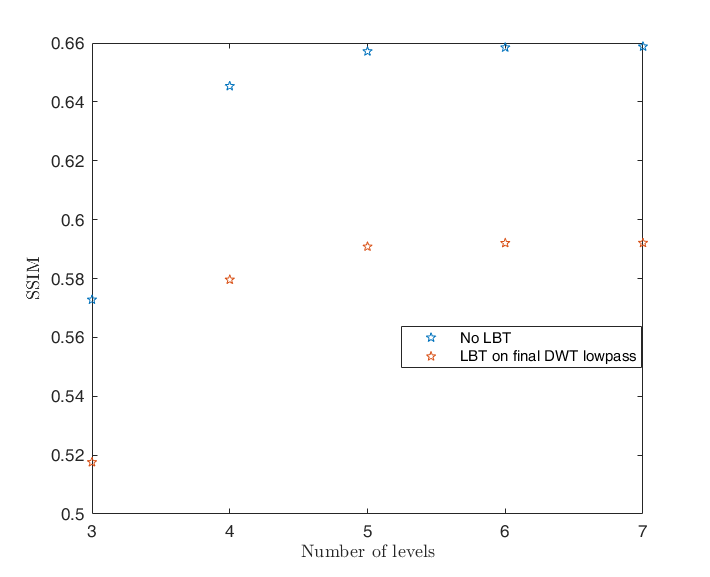
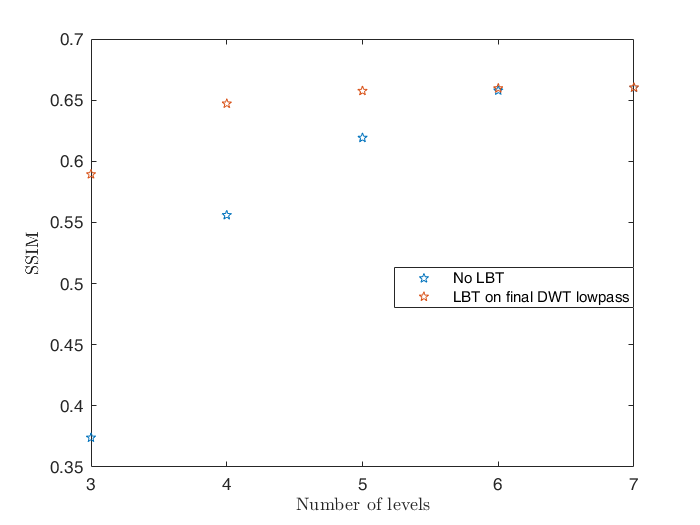
move images around, final comp file, fix DWT + LBT combo

diff --git a/comp_enc.m b/comp_enc.m
@@ -1,14 +1,10 @@
-%% ADD PATHS
-addpath('DWT');
-addpath('COMMON');
-addpath('LBT');
-
 %% DWT encoding
 % only optimisation is optimisation of the rise parameter
 
-rises = [0.4 0.5 0.9 1];
+rises = [0.45 0.5 1];
 rise = 0.5;
 s_dwt = -1;
+%{
 q_opt = 0;
 for r = rises
     evalc('[s,n,~,q,~] = dwt_opt_enc(X,7,-1,r);');
@@ -18,6 +14,7 @@ for r = rises
         rise = r;
     end
 end
+%}
 
 %% LBT encoding
 % only optimisation is optimisation of the ratio parameter and the qstep
@@ -54,7 +51,7 @@ if s_lbt > s_dwt
         % huffval
         % and...?
         
-        [vlc, bits, huffval, q_opt_lbt, ratio] = jpegenclbtnlev(X, q_opt_lbt, N, M, rise1, s, true, 16, ratio, ratio2);
+        [vlc, bits, huffval, q_opt_lbt, ratio] = jpegenclbtnlev(X, q_opt_lbt, 4, 16, 0.5, sqrt(2), true, 16, ratio, 0);
 
         
         

diff --git a/comp.m b/comp.m
@@ -9,15 +9,16 @@ fnames{1} = 'bridge';
 fnames{2} = 'flamingo';
 fnames{3} = 'competition';
 
-for cur_f = 1:3
+for cur_f = 2:-1:1
     clearvars -except fnames cur_f;
     fname = fnames{cur_f};
 
     load(fname);
+    X = double(X);
     fprintf('Compressing %s to 40960 bits.\n', fname);
     fname = fname(1:5);
     comp_enc;
-    clearvars -except fnames cur_f;
+    clearvars -except fnames fname cur_f;
     comp_dec;
 end
 

diff --git a/DWT/dwt_enc.m b/DWT/dwt_enc.m
@@ -73,7 +73,7 @@ if N_LBT > 0
     m_lbt = length(Y)/2^N_LEVELS;
     q_lbt = q(1, N_LEVELS+1);
     N_LBT = min(m_lbt, 4);
-    Y(1:m_lbt, 1:m_lbt) = lbt_enc(Y(1:m_lbt, 1:m_lbt), N_LBT, q_lbt, sqrt(2), rise);
+    Y(1:m_lbt, 1:m_lbt) = lbt_enc(Y(1:m_lbt, 1:m_lbt)+128, N_LBT, q_lbt, sqrt(2), rise);
 end
 
 % Quantise to integers.

diff --git a/LBT/jpegencdeclbtnlev.m b/LBT/jpegencdeclbtnlev.m
@@ -10,7 +10,7 @@ q_opt = lbtjpegqnlev(X, N, M, rise1, s, opthuff, dcbits, ratio, ratio2);
 Z = jpegdeclbtnlev(vlc, q_opt, N, M, rise1, s, bits, huffval, dcbits, ratio,ratio2);
 
 % compare the decoded image to the original
-ssimval = ssim(Z,X-128); 
+ssimval = ssim(Z,X); 
 
 % rms error
 rmsError = std(X(:)-Z(:));

diff --git a/LBT/jpegdeclbtnlev.m b/LBT/jpegdeclbtnlev.m
@@ -160,7 +160,7 @@ Z = lbt_dec(Zi, N, s);
 % clip Z values to be in 0 to 255 range
 Z = Z + 128;
 Z(Z<0) = 0;
-Z(Z>255) = 0;
+Z(Z>255) = 255;
 
 %fprintf(1, 'Inverse %i x %i DCT\n', N, N);
 %C8=dct_ii(N);
